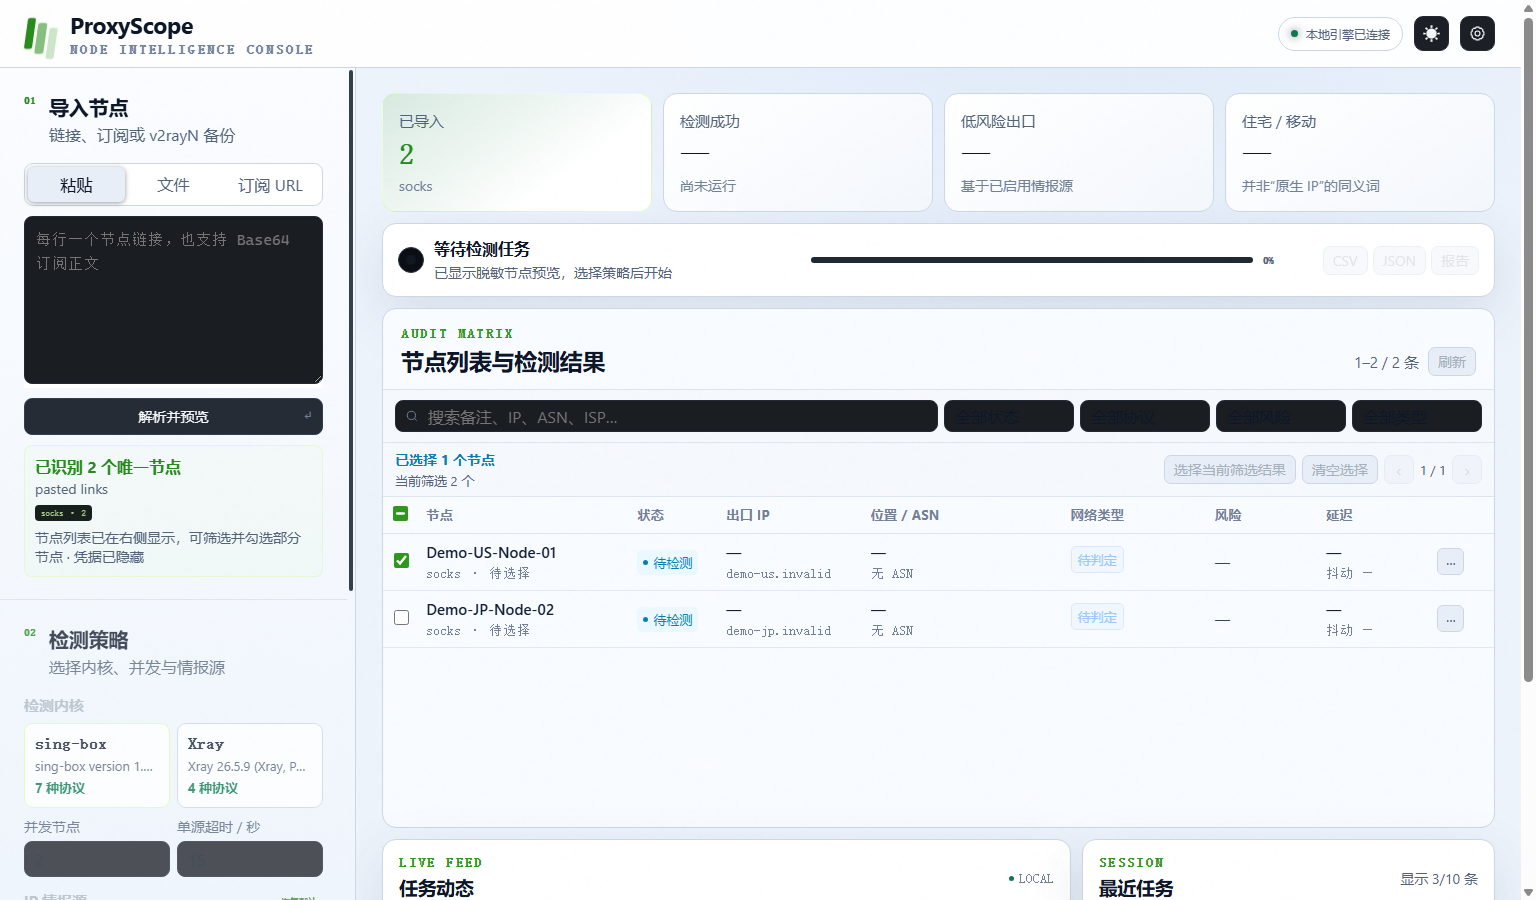
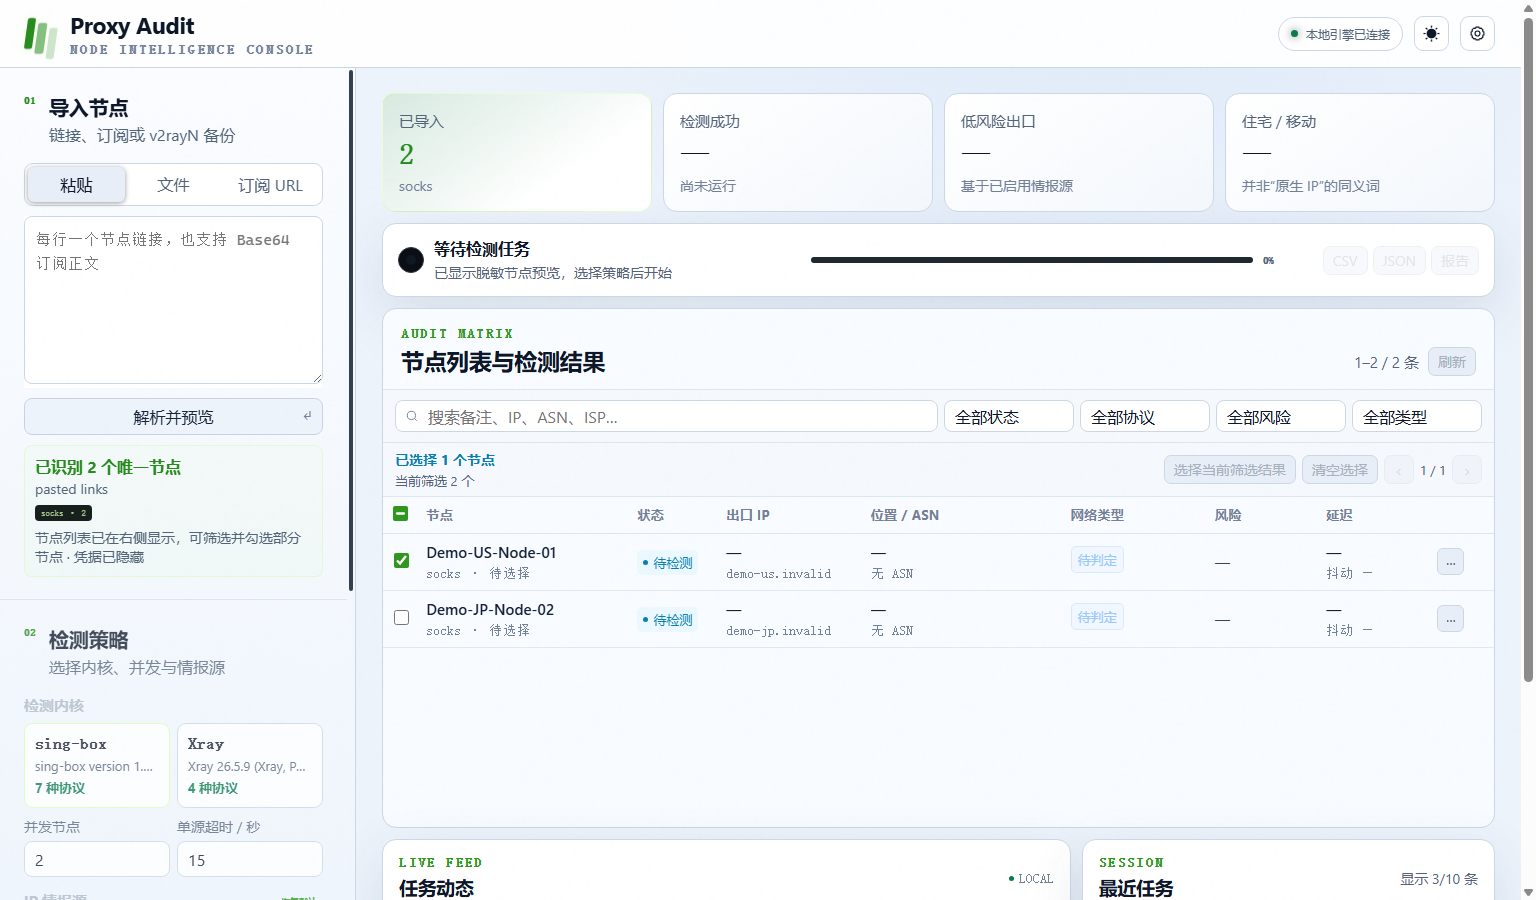
refactor: unify project brand as Proxy Audit

diff --git a/web/app.js b/web/app.js
@@ -15,10 +15,24 @@ const state = {
   renameTaskId: null,
 };
 
-const UI_THEME_KEY = "proxyScope.theme";
-const UI_FONT_KEY = "proxyScope.fontSize";
-const SESSION_IMPORT_KEY = "proxyScope.currentImport";
-const SESSION_TASK_KEY = "proxyScope.currentTask";
+const UI_THEME_KEY = "proxyAudit.theme";
+const UI_FONT_KEY = "proxyAudit.fontSize";
+const SESSION_IMPORT_KEY = "proxyAudit.currentImport";
+const SESSION_TASK_KEY = "proxyAudit.currentTask";
+
+function migrateLegacyStorage() {
+  [
+    [localStorage, "proxyScope.theme", UI_THEME_KEY],
+    [localStorage, "proxyScope.fontSize", UI_FONT_KEY],
+    [sessionStorage, "proxyScope.currentImport", SESSION_IMPORT_KEY],
+    [sessionStorage, "proxyScope.currentTask", SESSION_TASK_KEY],
+  ].forEach(([storage, legacyKey, currentKey]) => {
+    if (storage.getItem(currentKey) === null && storage.getItem(legacyKey) !== null) {
+      storage.setItem(currentKey, storage.getItem(legacyKey));
+    }
+    storage.removeItem(legacyKey);
+  });
+}
 
 const keyLabels = {
   ipinfo_api_key: "IPinfo API Token",
@@ -626,6 +640,7 @@ function bindEvents() {
 }
 
 async function boot() {
+  migrateLegacyStorage();
   applyPreferences();
   bindEvents();
   await loadSystem();

diff --git a/web/legal.html b/web/legal.html
@@ -4,7 +4,7 @@
   <meta charset="utf-8">
   <meta name="viewport" content="width=device-width,initial-scale=1">
   <meta name="color-scheme" content="dark light">
-  <title>ProxyScope · 使用与隐私说明</title>
+  <title>Proxy Audit · 使用与隐私说明</title>
   <link rel="stylesheet" href="/static/styles.css">
 </head>
 <body class="legal-page">
@@ -12,7 +12,7 @@
     <section class="legal-hero">
       <span class="eyebrow">RESPONSIBLE USE</span>
       <h1>使用、隐私与安全边界</h1>
-      <p>ProxyScope 是只在本机运行的节点连通性与出口 IP 质量检测工具。请仅检测本人所有、本人管理或已经取得明确测试授权的节点。</p>
+      <p>Proxy Audit 是只在本机运行的节点连通性与出口 IP 质量检测工具。请仅检测本人所有、本人管理或已经取得明确测试授权的节点。</p>
       <div class="legal-nav">
         <a href="#compliance">使用边界</a><a href="#privacy">隐私流向</a><a href="#security">安全部署</a><a href="#licenses">第三方许可</a><a class="legal-back" href="/">返回面板</a>
       </div>

diff --git a/web/index.html b/web/index.html
@@ -4,7 +4,7 @@
   <meta charset="utf-8">
   <meta name="viewport" content="width=device-width,initial-scale=1">
   <meta name="color-scheme" content="dark light">
-  <title>ProxyScope · 节点 IP 质量审计</title>
+  <title>Proxy Audit · 节点 IP 质量审计</title>
   <link rel="stylesheet" href="/static/styles.css">
 </head>
 <body>
@@ -12,7 +12,7 @@
   <header class="topbar">
     <div class="brand">
       <div class="brand-mark"><span></span><span></span><span></span></div>
-      <div><strong>ProxyScope</strong><small>NODE INTELLIGENCE CONSOLE</small></div>
+      <div><strong>Proxy Audit</strong><small>NODE INTELLIGENCE CONSOLE</small></div>
     </div>
     <div class="top-actions">
       <div class="health-pill"><i id="healthDot"></i><span id="healthText">连接本地引擎…</span></div>

diff --git a/tests/ui_browser_acceptance.py b/tests/ui_browser_acceptance.py
@@ -106,10 +106,11 @@ class CDP:
 
 
 def main():
-    parser = argparse.ArgumentParser(description="Real-browser acceptance test for ProxyScope Web UI")
+    parser = argparse.ArgumentParser(description="Real-browser acceptance test for Proxy Audit Web UI")
     parser.add_argument("--width", type=int, default=1536)
     parser.add_argument("--height", type=int, default=700)
     parser.add_argument("--screenshot", default=str(ROOT / "temp" / "ui-browser-acceptance.png"))
+    parser.add_argument("--write-demo-assets", action="store_true", help="refresh README screenshots using synthetic .invalid nodes")
     args = parser.parse_args()
 
     app_port = free_port()
@@ -170,6 +171,20 @@ def main():
         cdp.call("Page.navigate", {"url": f"http://127.0.0.1:{app_port}/"})
         wait_for(lambda: cdp.evaluate("document.readyState === 'complete'"), message="page load")
         wait_for(lambda: cdp.evaluate("document.querySelector('#healthText')?.textContent === '本地引擎已连接'"), message="system API render")
+        assert cdp.evaluate("document.title") == "Proxy Audit · 节点 IP 质量审计"
+        assert cdp.evaluate("document.querySelector('.brand strong').textContent") == "Proxy Audit"
+        legacy_storage = cdp.evaluate("""
+          (() => {
+            localStorage.removeItem('proxyAudit.theme');
+            localStorage.setItem('proxyScope.theme', 'dark');
+            migrateLegacyStorage();
+            return {
+              migrated: localStorage.getItem('proxyAudit.theme'),
+              legacyRemoved: localStorage.getItem('proxyScope.theme') === null,
+            };
+          })()
+        """)
+        assert legacy_storage == {"migrated": "dark", "legacyRemoved": True}, legacy_storage
 
         geometry = cdp.evaluate("""
           (() => {
@@ -261,9 +276,13 @@ socks://demo-jp.invalid:1080#Demo-JP-Node-02`;
         assert "已选择 1 个节点" in cdp.evaluate("document.querySelector('#selectionCount').textContent")
         preview_screenshot = Path(args.screenshot).with_name(Path(args.screenshot).stem + "-preview" + Path(args.screenshot).suffix)
         cdp.screenshot(preview_screenshot)
+        if args.write_demo_assets:
+            cdp.screenshot(ROOT / "docs" / "assets" / "dashboard-dark-demo.png")
         cdp.evaluate("document.querySelector('.control-rail').scrollTop = document.querySelector('.control-rail').scrollHeight")
         compliance_screenshot = Path(args.screenshot).with_name(Path(args.screenshot).stem + "-compliance" + Path(args.screenshot).suffix)
         cdp.screenshot(compliance_screenshot)
+        if args.write_demo_assets:
+            cdp.screenshot(ROOT / "docs" / "assets" / "authorization-gate-demo.png")
         cdp.evaluate("document.querySelector('.control-rail').scrollTop = 0")
 
         previous_theme = cdp.evaluate("document.documentElement.dataset.theme")
@@ -282,12 +301,14 @@ socks://demo-jp.invalid:1080#Demo-JP-Node-02`;
         light_screenshot = Path(args.screenshot).with_name(Path(args.screenshot).stem + "-light" + Path(args.screenshot).suffix)
         cdp.evaluate("document.querySelector('[data-close=" + json.dumps("settingsModal") + "]').click()")
         cdp.screenshot(light_screenshot)
+        if args.write_demo_assets:
+            cdp.screenshot(ROOT / "docs" / "assets" / "dashboard-light-demo.png")
         cdp.evaluate("document.querySelector('#authorizationConfirm').click()")
         assert cdp.evaluate("document.querySelector('#startButton').disabled") is False
         assert "仅检测已选 1 个节点" in cdp.evaluate("document.querySelector('#startHint').textContent")
         cdp.evaluate("document.querySelector('#startButton').click()")
         generated_task_id = wait_for(
-            lambda: cdp.evaluate("sessionStorage.getItem('proxyScope.currentTask')"),
+            lambda: cdp.evaluate("sessionStorage.getItem('proxyAudit.currentTask')"),
             message="acceptance task id",
         )
         wait_for(
@@ -305,7 +326,7 @@ socks://demo-jp.invalid:1080#Demo-JP-Node-02`;
         assert cdp.evaluate("document.querySelector('#metricImported').textContent") == "1"
         assert cdp.evaluate("document.documentElement.dataset.theme") == "light"
         assert cdp.evaluate("document.documentElement.dataset.fontSize") == "xlarge"
-        cdp.evaluate("document.querySelector(`[data-rename-task='${sessionStorage.getItem('proxyScope.currentTask')}']`).click()")
+        cdp.evaluate("document.querySelector(`[data-rename-task='${sessionStorage.getItem('proxyAudit.currentTask')}']`).click()")
         wait_for(lambda: cdp.evaluate("!document.querySelector('#renameModal').classList.contains('hidden')"), message="rename modal")
         cdp.evaluate("document.querySelector('#renameTaskInput').value = 'Browser renamed history'; document.querySelector('#saveTaskName').click()")
         wait_for(lambda: cdp.evaluate("document.querySelector('#historyList').textContent.includes('Browser renamed history')"), message="renamed history")
@@ -325,11 +346,14 @@ socks://demo-jp.invalid:1080#Demo-JP-Node-02`;
 
         cdp.call("Page.navigate", {"url": f"http://127.0.0.1:{app_port}/legal"})
         wait_for(lambda: cdp.evaluate("document.readyState === 'complete'"), message="legal page load")
+        assert cdp.evaluate("document.title") == "Proxy Audit · 使用与隐私说明"
         assert cdp.evaluate("document.querySelector('h1').textContent") == "使用、隐私与安全边界"
         assert cdp.evaluate("document.querySelectorAll('.legal-section').length") == 4
         assert cdp.evaluate("document.documentElement.scrollWidth <= document.documentElement.clientWidth")
         legal_screenshot = Path(args.screenshot).with_name(Path(args.screenshot).stem + "-legal" + Path(args.screenshot).suffix)
         cdp.screenshot(legal_screenshot)
+        if args.write_demo_assets:
+            cdp.screenshot(ROOT / "docs" / "assets" / "legal-privacy-page.png")
         assert not cdp.exceptions, cdp.exceptions
 
         summary = {

diff --git a/tests/test_web_api.py b/tests/test_web_api.py
@@ -26,6 +26,7 @@ class WebApiTests(unittest.TestCase):
     def test_local_legal_page_and_authorization_gate(self):
         legal = self.client.get("/legal")
         self.assertEqual(legal.status_code, 200)
+        self.assertIn("Proxy Audit · 使用与隐私说明", legal.get_data(as_text=True))
         self.assertIn("使用、隐私与安全边界", legal.get_data(as_text=True))
         legal.close()
         imported = self.client.post(

diff --git a/scripts/generate_success_reports.py b/scripts/generate_success_reports.py
@@ -5,7 +5,7 @@ import sys
 from pathlib import Path
 from typing import Dict, Any, List, Tuple
 
-ROOT = Path(r"E:/Openclaw_Workspace/proxy_audit")
+ROOT = Path(__file__).resolve().parents[1]
 RAW_DIR = ROOT / 'results' / 'raw'
 REPORT_DIR = ROOT / 'results' / 'reports'
 

diff --git a/README_EN.md b/README_EN.md
@@ -1,14 +1,14 @@
-# ProxyScope / proxy_audit
+# Proxy Audit
 
 [简体中文](README.md) | [English](README_EN.md)
 
 [![License: Apache-2.0](https://img.shields.io/badge/License-Apache--2.0-blue.svg)](LICENSE)
 [![Security and tests](https://github.com/zouchenzhen/proxy-audit/actions/workflows/security-and-tests.yml/badge.svg)](https://github.com/zouchenzhen/proxy-audit/actions/workflows/security-and-tests.yml)
 
-ProxyScope is a local Windows application for batch-testing proxy node connectivity and exit-IP quality. It imports v2rayN backups, databases, subscriptions, and share links; runs real outbound checks through sing-box or Xray; enriches exit IPs with multiple intelligence providers; and presents searchable, filterable results in a Web UI.
+Proxy Audit is a local Windows application for batch-testing proxy node connectivity and exit-IP quality. It imports v2rayN backups, databases, subscriptions, and share links; runs real outbound checks through sing-box or Xray; enriches exit IPs with multiple intelligence providers; and presents searchable, filterable results in a Web UI.
 
 > [!IMPORTANT]
-> Test only assets that you own, manage, or have explicit permission to test. Follow applicable local laws and third-party service terms. ProxyScope is not a node provider and does not offer a public proxy service, access-control bypass, or anonymity guarantee.
+> Test only assets that you own, manage, or have explicit permission to test. Follow applicable local laws and third-party service terms. Proxy Audit is not a node provider and does not offer a public proxy service, access-control bypass, or anonymity guarantee.
 
 ## Quick start
 
@@ -46,14 +46,14 @@ You can also start it from PowerShell:
 
 All screenshots below were generated in an isolated acceptance environment with synthetic `.invalid` nodes. They contain no real subscriptions, credentials, exit IPs, or complete API keys.
 
-![ProxyScope dark dashboard](docs/assets/dashboard-dark-demo.png)
+![Proxy Audit dark dashboard](docs/assets/dashboard-dark-demo.png)
 
-![ProxyScope authorization and partial selection](docs/assets/authorization-gate-demo.png)
+![Proxy Audit authorization and partial selection](docs/assets/authorization-gate-demo.png)
 
 <details>
 <summary>Light theme</summary>
 
-![ProxyScope light dashboard](docs/assets/dashboard-light-demo.png)
+![Proxy Audit light dashboard](docs/assets/dashboard-light-demo.png)
 
 </details>
 

diff --git a/README.md b/README.md
@@ -1,4 +1,4 @@
-# ProxyScope / proxy_audit
+# Proxy Audit
 
 [简体中文](README.md) | [English](README_EN.md)
 
@@ -25,7 +25,7 @@ cd proxy-audit
 也可以在 PowerShell 中运行：
 
 ```powershell
-cd E:/Openclaw_Workspace/proxy_audit
+cd proxy-audit
 ./start-web.ps1
 ```
 
@@ -56,16 +56,16 @@ Web UI 现已支持：
 
 以下截图由隔离验收环境使用 `.invalid` 假节点生成，不含真实订阅、节点凭据、出口 IP 或完整 Key。
 
-![ProxyScope 深色模式节点预览](docs/assets/dashboard-dark-demo.png)
+![Proxy Audit 深色模式节点预览](docs/assets/dashboard-dark-demo.png)
 
-![ProxyScope 授权确认与局部选择](docs/assets/authorization-gate-demo.png)
+![Proxy Audit 授权确认与局部选择](docs/assets/authorization-gate-demo.png)
 
-![ProxyScope 本地合规与隐私页面](docs/assets/legal-privacy-page.png)
+![Proxy Audit 本地使用与隐私页面](docs/assets/legal-privacy-page.png)
 
 <details>
 <summary>查看浅色模式</summary>
 
-![ProxyScope 浅色模式节点预览](docs/assets/dashboard-light-demo.png)
+![Proxy Audit 浅色模式节点预览](docs/assets/dashboard-light-demo.png)
 
 </details>
 
@@ -141,7 +141,7 @@ python tests/real_local_acceptance.py --db "E:\\path\\to\\v2rayN\\guiConfigs\\gu
 ## 目录结构
 
 ```text
-proxy_audit/
+proxy-audit/
 ├─ bin/
 │  ├─ sing-box.exe             # 运行时下载，不进入 Git
 │  └─ xray.exe                 # 可选，不进入 Git；也可在 Web 设置中指定
@@ -199,7 +199,7 @@ proxy_audit/
 推荐先进入项目目录：
 
 ```powershell
-cd E:/Openclaw_Workspace/proxy_audit
+cd proxy-audit
 ```
 
 ## 配置文件

diff --git a/TRADEMARKS.md b/TRADEMARKS.md
@@ -1,10 +1,10 @@
 # Project name and brand usage
 
 The Apache License 2.0 grants rights in the software but does not grant trademark rights.
-“ProxyScope”, the three-bar logo and the repository's visual identity identify this project and are
+“Proxy Audit”, the three-bar logo and the repository's visual identity identify this project and are
 not included in the software copyright license except for reasonable, factual reference to origin.
 
-You may state that a product is based on, compatible with or forked from ProxyScope, and may link to
+You may state that a product is based on, compatible with or forked from Proxy Audit, and may link to
 this repository. Modified distributions should clearly identify themselves as unofficial, describe
 material changes and avoid names, logos, domains or presentation that could reasonably imply they are
 the official project or are endorsed by its maintainers.

diff --git a/PRIVACY.md b/PRIVACY.md
@@ -2,7 +2,7 @@
 
 最后更新：2026-08-10
 
-ProxyScope 是默认只监听 `127.0.0.1` 的本地工具，没有官方云端后端、用户账户、广告、
+Proxy Audit 是默认只监听 `127.0.0.1` 的本地工具，没有官方云端后端、用户账户、广告、
 遥测或分析 SDK。维护者不会因为你运行本地副本而自动收到节点、订阅、Key 或结果。
 但是，检测本身会按你的选择访问订阅服务器、IP 情报服务和测试端点。
 

diff --git a/COMPLIANCE.md b/COMPLIANCE.md
@@ -2,7 +2,7 @@
 
 最后更新：2026-08-10
 
-`proxy_audit` / ProxyScope 是本地运行的节点连通性与出口 IP 质量检测工具。它不是
+Proxy Audit 是本地运行的节点连通性与出口 IP 质量检测工具。它不是
 节点提供商，不提供代理账号，不建立公共代理服务，也不保证任何具体使用方式适用于
 所有地区或场景。本说明用于说明项目边界和基本安全要求。
 

diff --git a/CHANGELOG.md b/CHANGELOG.md
@@ -3,6 +3,7 @@
 ## 2026-08-10
 
 ### Web UI 2.2 · 公开发布准备
+- 项目对外名称统一为 Proxy Audit，与 GitHub 仓库名 `proxy-audit` 保持一致
 - 项目自有代码采用 Apache License 2.0，并加入 NOTICE 与第三方许可证清单
 - 新增简洁中性的负责任使用、隐私、安全政策和公开发布检查清单
 - Web UI 增加任务前授权确认；任务 API 同步强制校验并记录说明版本
